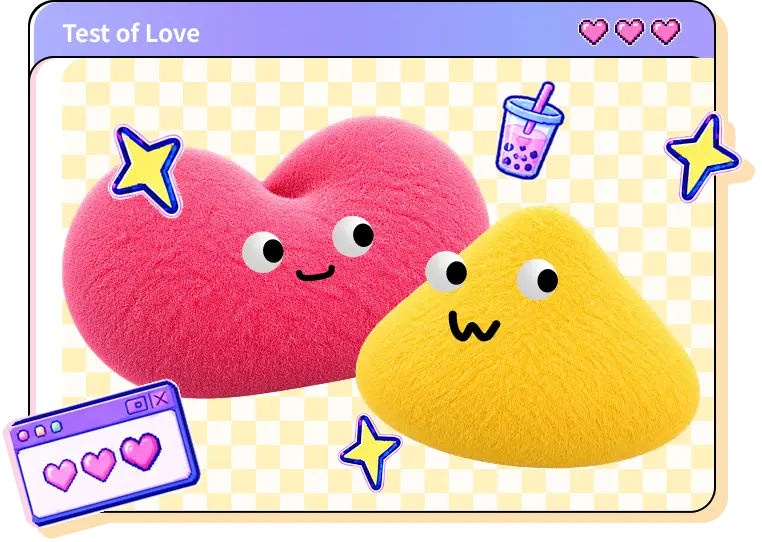
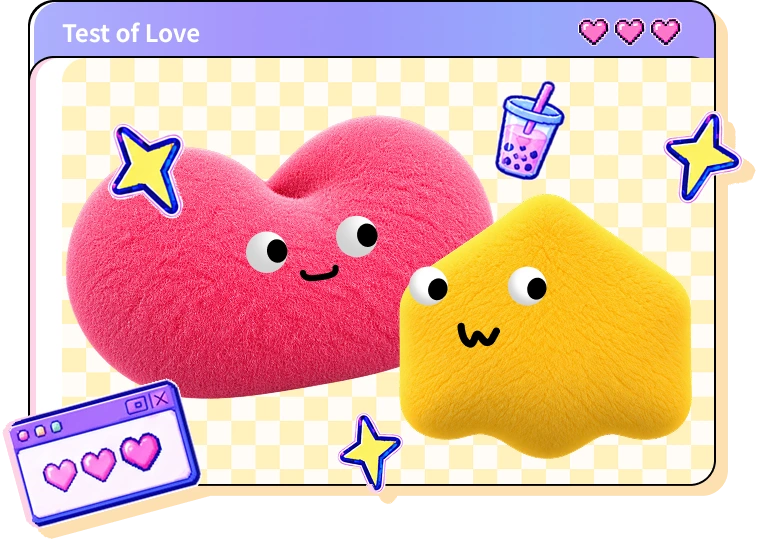
更新工作室首頁遊戲主視覺

Changed region(s): [[0.0604, 0.2066, 0.9659, 0.9742]]

diff --git a/index.html b/index.html
@@ -70,7 +70,7 @@
               <h2 id="firstGameTitle">第一款遊戲：《送禮大作戰》</h2>
               <figure class="game-visual">
                 <img
-                  src="assets/gift-game-main.webp"
+                  src="assets/gift-game-main.webp?v=20261016-1"
                   width="762"
                   height="542"
                   alt="《送禮大作戰》主視覺，粉紅愛心與黃色角色出現在 Test of Love 視窗中"
